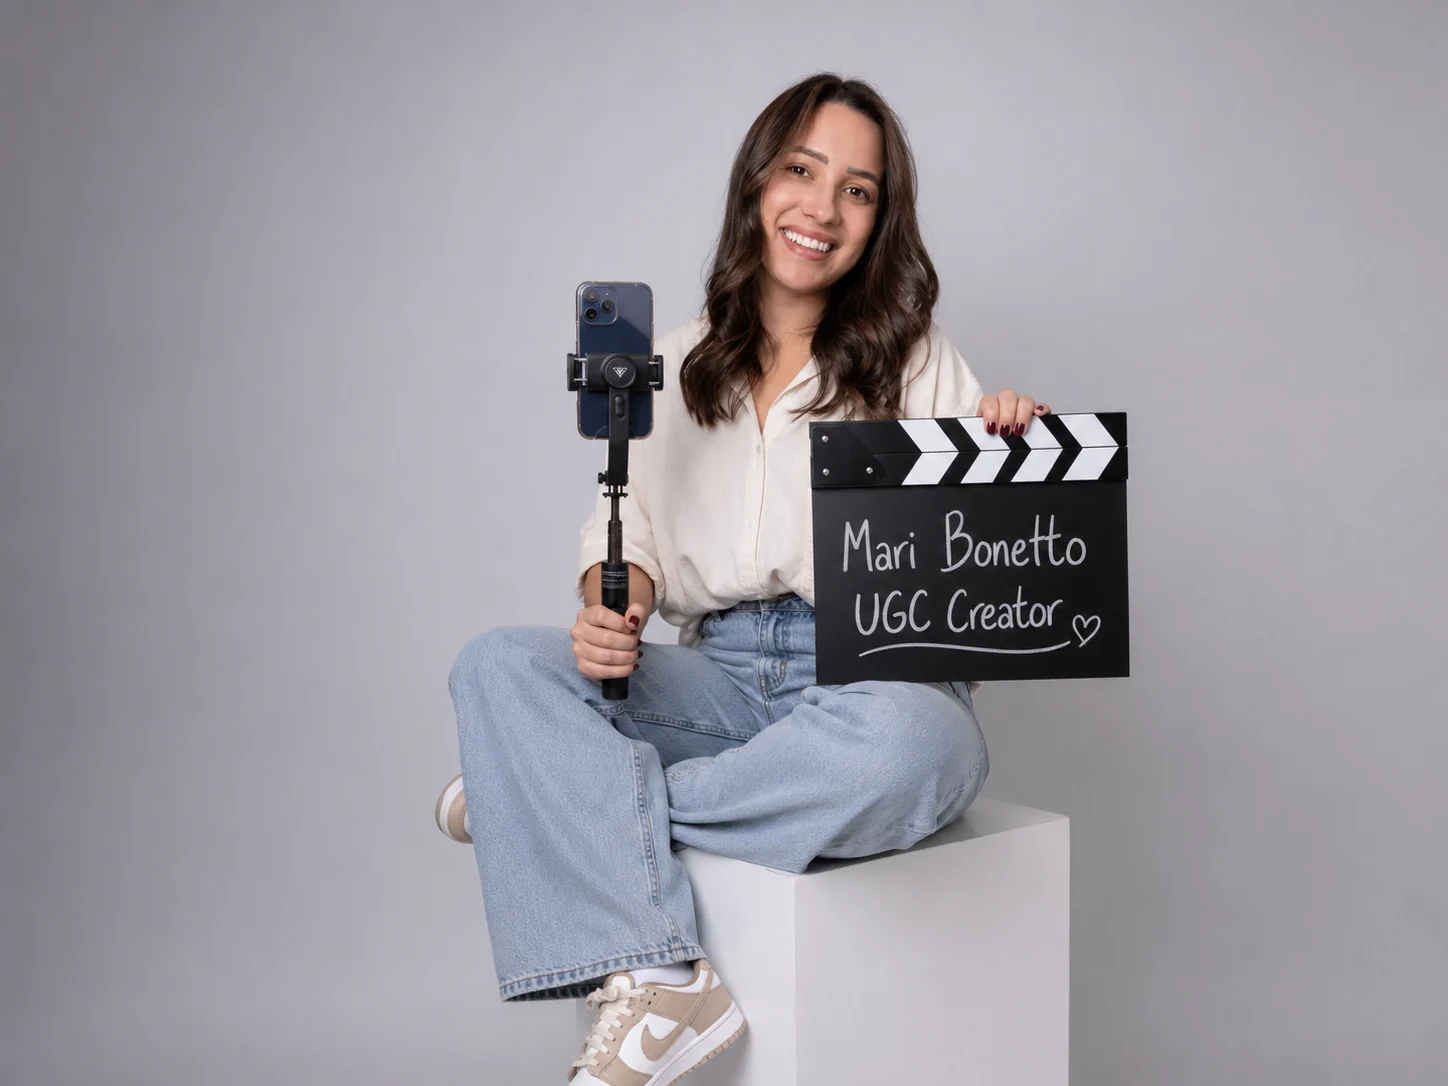
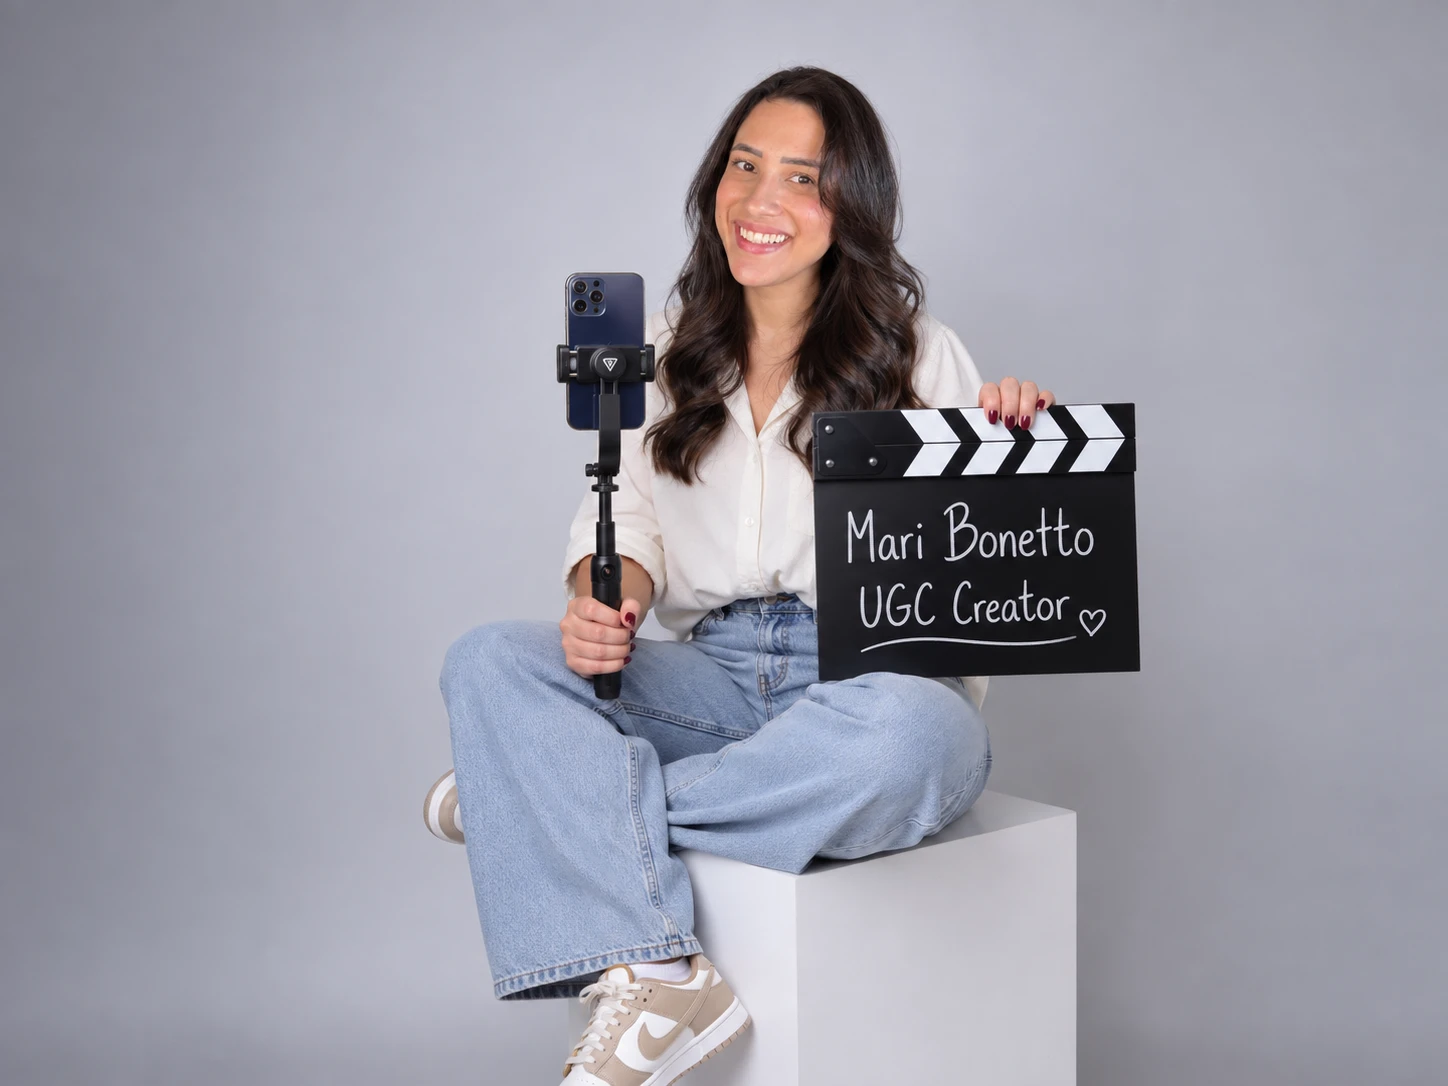
Sobre mim no formato da referência com a foto da claquete
Claude-Session: https://claude.ai/code/session_01BYPpPeCPa8ZJ1JieUtNXtS

Changed region(s): [[0.2797, 0.0608, 0.808, 1.0], [0.7148, 0.7293, 0.7459, 1.0], [0.4972, 0.9116, 0.5283, 0.942]]

diff --git a/index.html b/index.html
@@ -133,18 +133,16 @@
   /* =========================================================
      2. SOBRE MIM (painel taupe igual à referência) + 3. MARCAS ROLANDO
      ========================================================= */
-  .sobre-secao{padding:0 16px}
-  /* Cor tirada da imagem de referência (taupe #ac8e7d, variando de #ae907f a #a78a7b) com dobras suaves de cortina */
-  .sobre-painel{position:relative;max-width:1500px;min-height:720px;margin:0 auto;padding:22px 0 56px;overflow:hidden;color:#fff;
-    background:repeating-linear-gradient(90deg,rgba(255,255,255,0) 0,rgba(255,255,255,.035) 45px,rgba(255,255,255,0) 90px,rgba(60,35,20,.03) 135px,rgba(255,255,255,0) 180px),linear-gradient(180deg,#ae907f 0%,#ac8e7d 50%,#a78a7b 100%);border-radius:0 0 90px 90px}
-  .sobre-texto{position:relative;z-index:2;width:54%;padding-left:8%}
-  .sobre-titulo{font-family:"DM Serif Display",Georgia,serif;font-weight:400;font-size:clamp(3.4rem,6.4vw,5.8rem);line-height:1;letter-spacing:-.075em;color:#fff;margin:0 0 34px}
-  .sobre-apresenta{max-width:470px;margin:0 0 30px;padding:2px 30px 16px;border:1.5px solid rgba(255,255,255,.8);border-radius:999px;text-align:center;min-width:0}
-  .sobre-nome{margin:0 auto;padding:0 12px;font-family:"DM Serif Display",Georgia,serif;font-size:clamp(2rem,3.3vw,3rem);line-height:1;color:#fff;white-space:nowrap}
-  .sobre-apresenta p:last-child{margin:0;font-size:clamp(.85rem,1vw,.98rem);font-weight:300;line-height:1.35;color:#fff}
-  .sobre-texto > p{margin:0 0 20px;font-size:clamp(.95rem,1.18vw,1.14rem);font-weight:300;line-height:1.28;color:#fff}
-  .sobre-texto strong{font-weight:600;color:#fff}
-  .sobre-recorte{position:absolute;z-index:1;right:6%;bottom:0;height:calc(100% - 8px);width:auto;max-width:40%;object-fit:contain;object-position:bottom right}
+  section.sobre-secao{padding:64px 0 24px}
+  .sobre-grid{max-width:1340px;margin:0 auto;padding:0 24px;display:grid;grid-template-columns:minmax(0,.92fr) minmax(0,1.08fr);gap:56px;align-items:center}
+  .sobre-foto{border-radius:34px;overflow:hidden;aspect-ratio:4/5;box-shadow:0 18px 40px rgba(61,43,32,.14)}
+  .sobre-foto img{width:100%;height:100%;object-fit:cover;object-position:54% 50%}
+  .sobre-texto .sobretitulo{color:#a8603f}
+  .sobre-texto .sobretitulo::before{display:none}
+  .sobre-titulo{font-family:"DM Serif Display",Georgia,serif;font-weight:400;font-size:clamp(2.4rem,3.9vw,3.8rem);line-height:1.02;letter-spacing:-.03em;color:#2e1d14;margin:0 0 26px}
+  .sobre-titulo em{font-style:italic;color:#9a5a3c}
+  .sobre-texto > p:not(.sobretitulo){margin:0 0 18px;font-size:clamp(1rem,1.15vw,1.14rem);line-height:1.55;color:#3d2b20}
+  .sobre-texto strong{font-weight:600;color:#2e1d14}
 
   /* Faixa de números entre a capa e o Sobre mim */
   section.numeros-faixa{position:relative;z-index:3;padding:0 16px;margin-top:-70px}
@@ -157,8 +155,7 @@
 
   /* Marcas rolando em faixa clara logo abaixo do Sobre mim (direita para a esquerda, sem fim) */
   /* Faixa de ponta a ponta, colada no painel marrom (passa por trás dos cantos arredondados dele) */
-  .sobre-secao{position:relative;z-index:2}
-  .marcas-secao{position:relative;z-index:1;margin-top:-90px;padding:126px 0 40px;background:var(--creme)}
+  .marcas-secao{position:relative;padding:40px 0 40px;background:var(--creme)}
   .faixa{position:relative;width:100%;overflow:hidden}
   .faixa-titulo{display:flex;align-items:center;justify-content:center;gap:22px;margin:0 16px 28px;font-family:"Poppins",sans-serif;font-weight:500;font-size:.82rem;letter-spacing:.42em;text-transform:uppercase;color:var(--cafe-2);text-align:center}
   .faixa-titulo::before,.faixa-titulo::after{content:"";width:64px;height:1px;background:rgba(138,99,75,.45);flex-shrink:0}
@@ -405,15 +402,13 @@
      RESPONSIVO
      ========================================================= */
   @media (max-width:1000px){
+    .sobre-grid{grid-template-columns:minmax(0,1fr);gap:30px}
+    .sobre-foto{max-width:520px;width:100%;margin:0 auto;aspect-ratio:9/10}
     .capa-menu{gap:16px}
     .capa-menu a{font-size:.66rem;letter-spacing:.08em}
     .capa-topo .capa-selo{display:none}
     .capa-cta{padding:12px 18px;font-size:.7rem}
     .capa-foto{left:44%;max-width:58%}
-    .sobre-painel{min-height:0;padding:30px 0 0;border-radius:0 0 50px 50px}
-    .sobre-texto{width:100%;padding:0 32px}
-    .sobre-recorte{position:relative;display:block;right:auto;height:auto;width:min(78%,420px);max-width:none;margin:0 auto}
-    .sobre-painel{padding-bottom:0}
     .servicos-grid{grid-template-columns:repeat(2,minmax(0,1fr))}
     .metricas{grid-template-columns:repeat(2,minmax(0,1fr))}
     .depoimentos{grid-template-columns:repeat(2,minmax(0,1fr))}
@@ -443,6 +438,9 @@
     .videos-grid{grid-template-columns:repeat(3,minmax(0,1fr))}
   }
   @media (max-width:620px){
+    section.sobre-secao{padding:44px 0 16px}
+    .sobre-grid{padding:0 16px}
+    .sobre-foto{border-radius:24px}
     .capa-topo{padding:16px 14px 0;flex-wrap:wrap;justify-content:center;gap:10px}
     .capa-selo{padding:7px 12px;font-size:.6rem;letter-spacing:.08em}
     .capa-cta{padding:10px 14px;font-size:.66rem;letter-spacing:.06em}
@@ -461,15 +459,10 @@
     .bf-texto{flex-basis:100%;order:3;font-size:.85rem}
     .bf-link{order:4}
     .bf-link{margin-left:0}
-    .sobre-secao{padding:0 10px}
-    .sobre-painel{border-radius:0 0 36px 36px}
-    .sobre-texto{padding:0 20px}
-    .sobre-titulo{margin-bottom:28px}
-    .sobre-apresenta{padding:2px 18px 12px;border-radius:40px}
     .selo{width:82px;height:82px}
     .faixa-trilho ul{gap:18px;padding:6px 9px}
     .verificado{width:24px;height:24px;right:2px;bottom:2px}
-    .marcas-secao{margin-top:-36px;padding:66px 0 30px}
+    .marcas-secao{padding:28px 0 30px}
     .faixa-titulo{font-size:.6rem;letter-spacing:.18em;gap:10px;margin-bottom:20px;white-space:nowrap}
     .faixa-titulo::before,.faixa-titulo::after{width:18px}
     .com-linha{margin-left:14px;padding:30px 0 4px 16px}
@@ -594,25 +587,23 @@
     </ul>
   </section>
 
-  <!-- ================= 2. SOBRE MIM ================= -->
+  <!-- ================= 2. SOBRE MIM (formato da referência: foto à esquerda, texto à direita) ================= -->
   <section class="sobre-secao" id="sobre" aria-labelledby="titulo-sobre">
-    <div class="sobre-painel revelar">
-      <div class="sobre-texto">
-        <h2 class="sobre-titulo" id="titulo-sobre">Sobre mim</h2>
-        <fieldset class="sobre-apresenta">
-          <legend class="sobre-nome">Mari Bonetto</legend>
-          <p>Oi, tenho <strong>31 anos</strong>, moro em <strong>Valinhos</strong>, interior de <strong>SP</strong>, sou mãe de duas meninas e de três gatinhas</p>
-        </fieldset>
-        <p>Sempre amei compartilhar resenhas de produtos que fazem a diferença no meu dia a dia e foi assim que me apaixonei por esse universo.</p>
-        <p>Faz <strong>quase um ano</strong> que comecei no <strong>UGC</strong> e, nesse período, mais de <strong>80 marcas</strong> já confiaram no meu trabalho.</p>
-        <p>Meus conteúdos refletem muito do que vivo hoje. Em <strong>beleza e autocuidado</strong>, compartilho minha rotina com cabelos com progressiva e luzes, cuidados com quebra e queda, além de produtos para pele e corpo. Também falo sobre minha jornada após <strong>perder 23 kg</strong> e sobre me reencontrar com a moda, vivendo uma fase em que finalmente eu escolho as roupas que quero usar, e não o contrário.</p>
-        <p>Também compartilho conteúdos sobre <strong>maternidade</strong>, <strong>rotina fitness</strong>, <strong>casa</strong>, <strong>organização</strong>, <strong>achadinhos</strong> e produtos que facilitam a rotina de uma dona de casa, sempre trazendo situações e experiências que fazem parte da minha vida.</p>
-        <p>Sou detalhista e comprometida em entregar conteúdos que despertam interesse e confiança, sem deixar de lado aquilo que mais gosto de colocar no meu trabalho: verdade e identificação.</p>
+    <div class="sobre-grid">
+      <div class="sobre-foto revelar">
+        <!-- FOTO DO SOBRE MIM: para trocar, salve a nova foto na mesma pasta do index.html e mude o src abaixo -->
+        <img src="mari-bonetto-sobre.webp" alt="Mari Bonetto sentada em um cubo branco, sorrindo, segurando um celular no estabilizador e uma claquete escrita Mari Bonetto UGC Creator" width="1448" height="1086" loading="lazy">
       </div>
-
-      <!-- FOTO DO SOBRE MIM: recortada, sem fundo (WebP transparente). Para trocar, salve a nova foto na mesma pasta do index.html e mude o src abaixo -->
-      <img class="sobre-recorte" src="mari-bonetto-sobre-recorte.webp" alt="Mari Bonetto sentada em um cubo branco, segurando um celular no estabilizador e uma claquete escrita Mari Bonetto UGC Creator" width="720" height="1023" loading="lazy">
-
+      <div class="sobre-texto revelar">
+        <p class="sobretitulo">Sobre mim</p>
+        <h2 class="sobre-titulo" id="titulo-sobre">Oi, eu sou a <em>Mari Bonetto</em></h2>
+        <p>Tenho <strong>31 anos</strong>, moro em Valinhos, interior de SP, sou mãe de duas meninas e de três gatinhas.</p>
+        <p>Sempre amei compartilhar resenhas de produtos que fazem a diferença no meu dia a dia e foi assim que me apaixonei por esse universo.</p>
+        <p>Faz quase um ano que comecei no UGC e, nesse período, <strong>mais de 80 marcas</strong> já confiaram no meu trabalho.</p>
+        <p>Meus conteúdos refletem muito do que vivo hoje. Em <strong>beleza e autocuidado</strong>, compartilho minha rotina com cabelos com progressiva e luzes, cuidados com quebra e queda, além de produtos para pele e corpo. Também falo sobre minha jornada após <strong>perder 23 kg</strong> e sobre me reencontrar com a moda, vivendo uma fase em que finalmente eu escolho as roupas que quero usar, e não o contrário.</p>
+        <p>Também compartilho conteúdos sobre <strong>maternidade, rotina fitness, casa, organização, achadinhos</strong> e produtos que facilitam a rotina de uma dona de casa, sempre trazendo situações e experiências que fazem parte da minha vida.</p>
+        <p>Sou detalhista e comprometida em entregar conteúdos que despertam interesse e confiança, sem deixar de lado aquilo que mais gosto de colocar no meu trabalho: <strong>verdade e identificação.</strong></p>
+      </div>
     </div>
   </section>
 

diff --git a/CLAUDE.md b/CLAUDE.md
@@ -4,7 +4,7 @@ Este repositório é o site publicado no GitHub Pages:
 https://marianabonettougc.github.io/portfoliougc/
 
 - O site é o arquivo `index.html` (CSS e JS dentro dele, sem build, sem bibliotecas).
-- Imagens ficam ao lado dele: `mari-bonetto-capa.png` (foto da capa, PNG recortado com IA), `mari-bonetto-sobre.webp` (foto do Sobre mim) e a pasta `logos/` (logos das marcas, recortadas da referência enviada pela Mari).
+- Imagens ficam ao lado dele: `mari-bonetto-capa.png` (foto da capa, PNG recortado com IA), `mari-bonetto-sobre.webp` (foto do Sobre mim, com a claquete) e a pasta `logos/` (logos das marcas, recortadas da referência enviada pela Mari).
 - Os dados editáveis (marcas, destaques, trabalhos, serviços, métricas, resultados, depoimentos, contatos) ficam nos arrays no começo do `<script>`.
 - Toda edição pedida pela Mari deve ser feita no `index.html`, commitada e enviada direto para a branch `main`. O GitHub Pages publica a `main` automaticamente em 1 a 2 minutos.
 - Identidade atual: cartão de cafeteria premium, fontes Figtree e Caveat, paleta creme #f6efe6, papel #fffdf9, café #6b4a35, café 2 #8a634b, verde #4f7a54, vermelho #c5533f, texto #3d2b20, bordas tracejadas.
